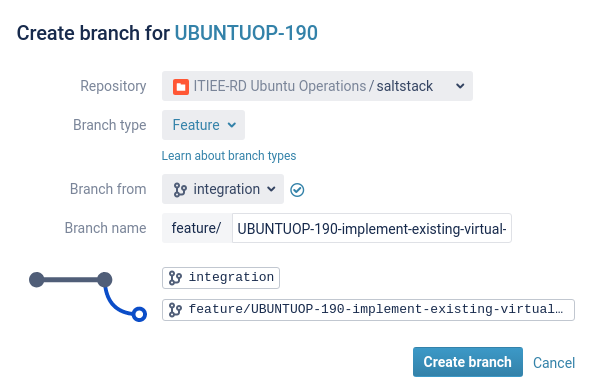
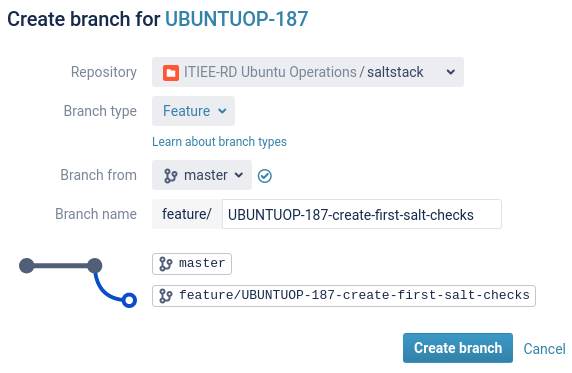
change pictures of branching workflow and adjust text of git_workflow.md

diff --git a/pages/docs/git_workflow.md b/pages/docs/git_workflow.md
@@ -13,7 +13,7 @@ folder: docs
 
 ![task_workflow](images/docs/salt_workflow/task_workflow.png)
 
-> Every feature or hotfix gets a separate task and branch!
+> <font color="red">Every feature or hotfix gets a separate task and branch!</font>
 
 1. [GSEP](https://gsep.daimler.com/)
 2. [Jira](https://gsep.daimler.com/Jira)
@@ -26,11 +26,11 @@ folder: docs
   - Label: Saltmigration
 6. In the created task on the right side there is a section "Development" with a "Create branch" button: <br>
 ![task_create_branch](images/docs/salt_workflow/task_create_branch.png)
-7. Create a branch: <br>
+7. Create a branch from master: <br>
 ![create_branch](images/docs/salt_workflow/create_branch.png)
 8. The assignee of the task pulls the remote changes from the repo and changes to the previously created branch:
 ```bash
-git pull
+git fetch origin
 git checkout <branchname>
 ```
 9. Apply changes

diff --git a/pages/docs/git_hotfix.md b/pages/docs/git_hotfix.md
@@ -35,7 +35,7 @@ folder: docs
     const integration = gitgraph.branch("integration");
     integration.commit("Add Feature");
 
-    const hotfix = gitgraph.branch("Hotfix");
+    const hotfix = gitgraph.branch({ name: "Hotfix", from: master });
     hotfix
       .commit("remove faulty package")
       .commit("adjust breaking config");
